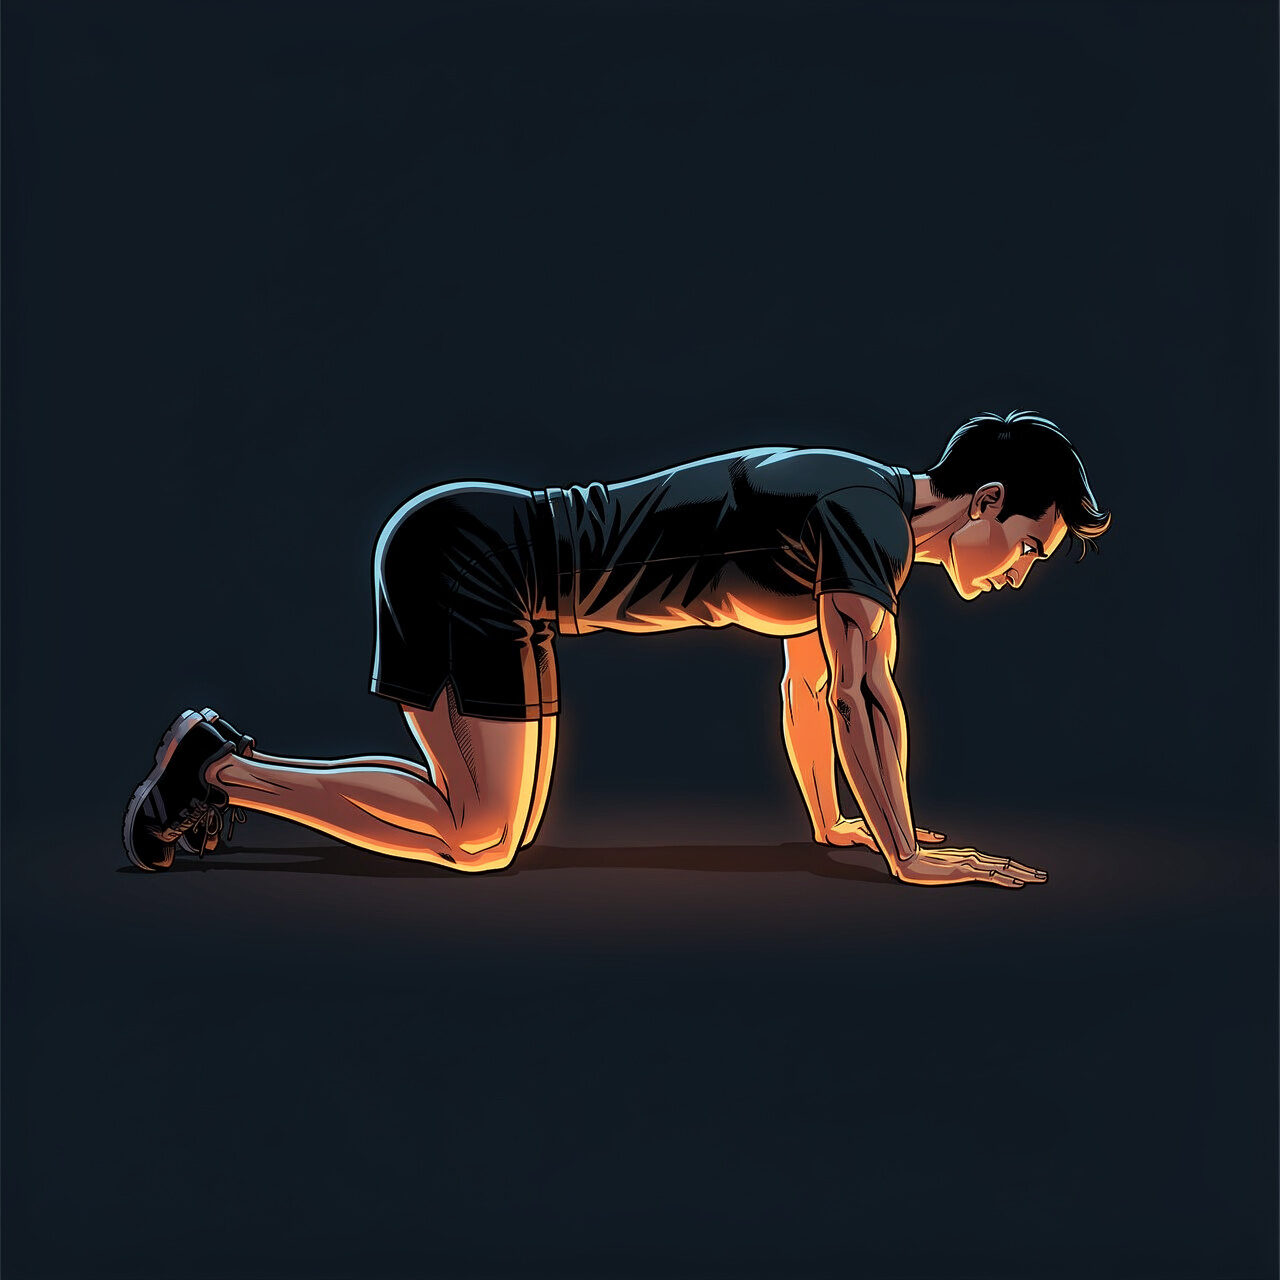
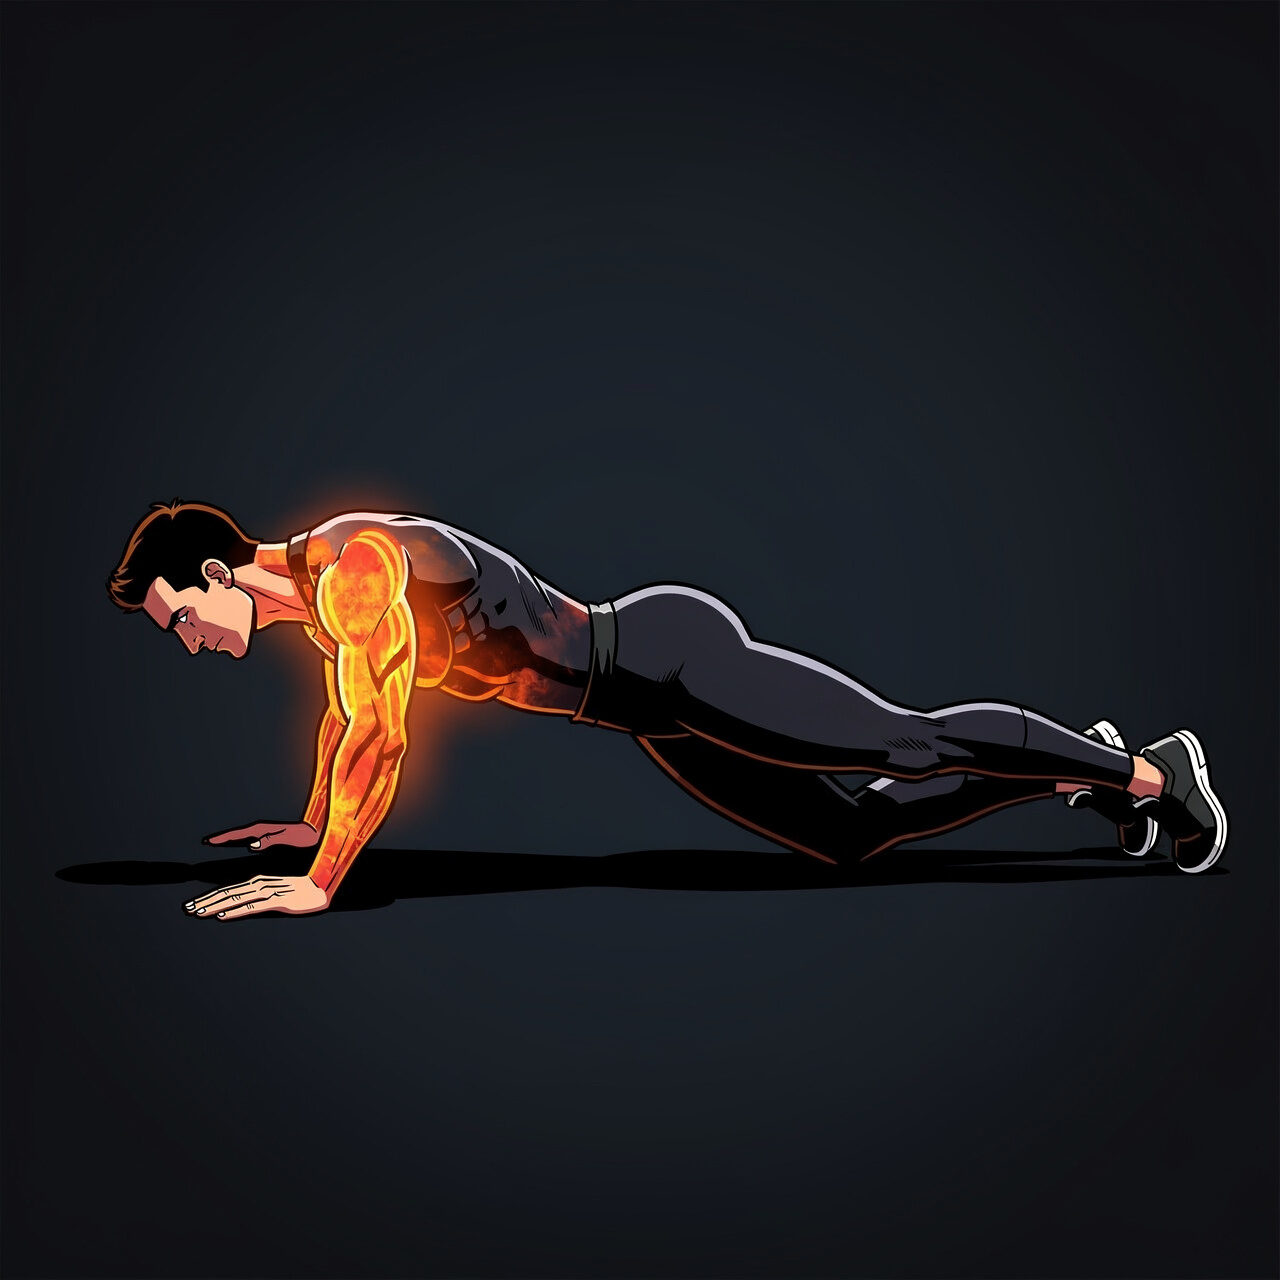
art(exercices): ancrer sur une pose que le modèle réussit, puis décrire l'écart
Piste soufflée par le texte MIT du dataset, qui décrit le planche non comme une
posture neuve mais comme « une position de pompe, poids porté vers l'avant
jusqu'à ce que les épaules dépassent les mains ». Or ce modèle dessine très bien
les pompes et la suspension : autant partir de là plutôt que de lutter contre.

La traction négative devient « exactement une suspension, mais coudes pliés et
menton à la barre » ; le tuck planche « une position de pompe, mais le poids
devant et les genoux remontés ». Les deux progressent nettement là où sept et
deux essais frontaux avaient échoué.

Et la limite, apprise du même coup : l'ancrage marche quand l'écart s'ajoute,
pas quand il remplace. « Une pompe, mais sur les genoux au lieu des pointes » a
donné une pompe sur les pointes — l'ancre dessinée, l'écart perdu. Ce modèle
accumule les contraintes et n'en révoque aucune, ce qui explique aussi tout le
reste : chaque réussite de la session était un ajout (un bloc sous les mains, une
rampe diagonale, un compte de pieds au sol), chaque échec demandait d'annuler un
trait de la pose voisine.

knee_pushup est donc committé en pompe classique. À reprendre : c'est le barreau
juste sous Push-ups, et deux marches de l'échelle avec la même image n'apprennent
rien à qui les compare.

Changed region(s): [[0.0312, 0.3125, 0.9688, 0.7188]]

diff --git a/scripts/generate-exercises.py b/scripts/generate-exercises.py
@@ -282,14 +282,13 @@ EXERCISES = [
     # KNEES are down — the shins are up in the air behind, which is what separates this from
     # kneeling on all fours.
     ("knee_pushup",
-     "A fantasy athlete hero at the very bottom of a push-up done from the knees, seen from the "
-     "side, almost lying on the floor. The elbows are folded to a sharp angle and point backwards "
-     "past the ribs, the shoulders have dropped down level with them, and the chest and chin hang "
-     "barely a fist above the ground — the head is lower than the hips. Only the two knees rest on "
-     "the ground: the shins and feet are raised up in the air behind, ankles crossed, so the knees "
-     "are the single point of contact below the hands. From the head down to the knees the body "
-     "holds one straight line. There is nothing else on the floor in front of the athlete. The "
-     "chest and arms glow with soft fiery orange energy."),
+     "A fantasy athlete hero at the very bottom of a PUSH-UP, seen from the side: hands flat on "
+     "the floor under the shoulders, elbows folded sharply back along the ribs, chest and chin "
+     "hanging a fist above the ground, body one straight line, head lower than the hips. It is an "
+     "ordinary push-up in every respect but one — instead of pivoting on the toes, the body pivots "
+     "on the two knees, which rest together on the floor while the shins slope up into the air "
+     "behind and the feet are raised clear of the ground. Everything above the knees is exactly a "
+     "push-up. The chest and arms glow with soft fiery orange energy."),
     # First draw came back with the head detached from the torso and the legs a separate black
     # shape: an inverted body is where this model's anatomy breaks down, so the figure is described
     # bottom-up along one vertical axis — hands, then shoulders, then hips, then feet — rather than
@@ -307,11 +306,17 @@ EXERCISES = [
      "A fantasy athlete hero hanging at full stretch from a rugged stone bar, arms completely "
      "straight, shoulders relaxed away from the ears and feet clear of the ground; the forearms "
      "and hands glow with metallic silver-blue energy, seen from the front."),
+    # First draw put the feet flat on the floor and the camera behind the athlete, which hides the
+    # only thing the picture has to say. Both are pinned: side view, and the ground named as being
+    # far below rather than merely absent — an unmentioned floor is one this model brings up to
+    # meet the feet.
     ("negative_pullup",
-     "A fantasy athlete hero part-way down from the top of a pull-up on a rugged stone bar, chin "
-     "just below bar height and elbows bending open under control, the descent slow and "
-     "deliberate; the back and biceps glow with metallic silver-blue energy, seen from a slight "
-     "low angle."),
+     "A fantasy athlete hero hanging from a rugged stone bar, seen from the side, legs together "
+     "and ankles crossed, feet swinging free a long way above the floor with nothing anywhere in "
+     "the picture for them to stand on. It is exactly a dead hang but for one thing: the arms are "
+     "not straight. Both elbows are folded to a sharp angle, the shoulders are drawn up close to "
+     "the hands and the chin has risen level with the top of the bar, caught part-way through a "
+     "slow descent. The back and biceps glow with metallic silver-blue energy."),
     # Three failures taught the rule this batch runs on. "Seated ... lifted clear of the floor" is a
     # contradiction the model settles by drawing the seated half; forbidding contact ("the hands are
     # the only part touching") produced a bear crawl, because a negative says what to avoid without
@@ -375,13 +380,19 @@ EXERCISES = [
     # So the drawn instant moves to the *lockout* instead: arms straight, body above the bar,
     # bar at hip level. Nothing but a muscle-up ends in a straight-arm support on a high bar, and
     # unlike the transition it cannot collapse into a pull-up, which is what kept happening.
+    # Four draws, four hangs below the bar — twice from behind. Two lessons applied here. The name
+    # goes (see `dragon_flag`): every sentence that contained it produced the pulling half of the
+    # movement instead of the finish. And the instant drawn is the lockout, where the geometry is
+    # decidable — nothing but this ends in a straight-arm support on a high bar, whereas a
+    # transition can always collapse back into a chin-up.
     ("muscle_up",
-     "A fantasy athlete hero at the finish of a muscle-up, locked out in a straight-arm support on "
-     "top of a rugged stone bar, seen from the side. Both arms are completely straight and press "
-     "down onto the bar, the bar sits at the level of the hips and passes UNDER the body, the "
-     "chest and head are high above it, and the legs hang straight down beneath the bar with the "
-     "feet far above the ground. The athlete is on top of the bar, not below it. The back, chest "
-     "and arms glow with metallic silver-blue energy."),
+     "A fantasy athlete hero supporting their whole body on top of a high rugged stone bar, seen "
+     "from the side, at the moment the ascent is finished. Both arms are locked completely "
+     "straight and press down onto the bar, which passes UNDER the body at the level of the hips. "
+     "The chest, shoulders and head are all well ABOVE the bar, and the legs hang straight down "
+     "beneath it with the feet a long way above the ground. The athlete is perched on top of the "
+     "bar and is not hanging underneath it at any point. The back, chest and arms glow with "
+     "metallic silver-blue energy."),
     ("toes_to_bar",
      "A fantasy athlete hero hanging from a rugged stone bar with both legs raised straight "
      "overhead and the toes touching the bar between the hands, body folded sharply at the hips; "
@@ -435,17 +446,16 @@ EXERCISES = [
     # ONE block, for the reason spelled out on `l_sit`: given a spare block in a side view this one
     # stood a foot on it, which is a crouch on a step and not a balance at all.
     ("tuck_planche",
-     "A fantasy athlete hero holding a tuck planche on a single low stone block, seen from the "
-     "side, with the torso held HORIZONTAL like a plank in the air. Both hands press flat on top of "
-     "that one block, one directly behind the other so only the near hand shows, and the elbows are "
-     "locked perfectly straight — the arms are the only thing holding the athlete up. The shoulders "
-     "are pushed forward past the wrists, and the back is roughly parallel with the ground, hips "
-     "floating out behind the block in empty air at the same height as the shoulders. The knees are "
-     "drawn up towards the chest but touch NOTHING — they do not rest on the arms, the elbows or "
-     "the block, and this is not a crouch and not a crow pose. There is exactly ONE stone block in "
-     "the entire picture — no second block, no step, no ledge — and nothing under the body but "
-     "empty dark space with the floor far below. The shoulders and locked arms glow with "
-     "silver-blue energy. No white outline, border or frame around the figure."),
+     "A fantasy athlete hero at the top of a PUSH-UP position on a single low stone block, seen "
+     "from the side, arms locked dead straight — and from that starting point two things change. "
+     "First the weight has shifted forward until the shoulders sit well ahead of the hands. Second "
+     "the feet have left the ground completely and both knees have come up tight against the "
+     "chest, so the body now floats behind the arms with the hips at about shoulder height and the "
+     "toes hanging in mid-air, touching nothing. Both hands press flat on top of that one block, "
+     "one directly behind the other so only the near hand shows. There is exactly ONE stone block "
+     "in the entire picture — no second block, no step, no ledge — and nothing under the body but "
+     "empty dark space. The shoulders and locked arms glow with silver-blue energy. No white "
+     "outline, border or frame around the figure."),
 ]
 
 if __name__ == "__main__":
